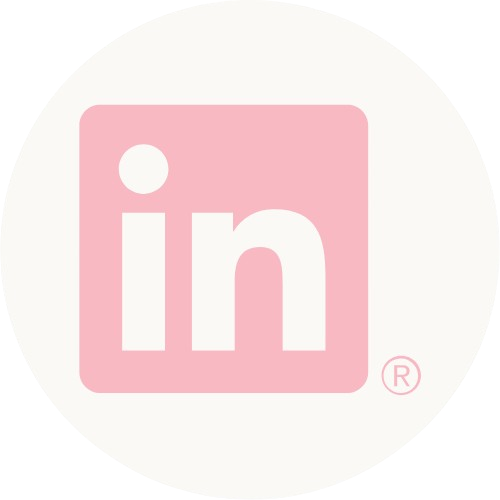
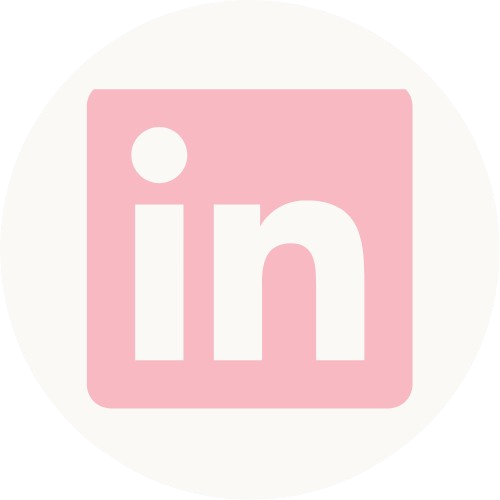
beautiful people beautiful problems - lana del rey

Changed region(s): [[0.15, 0.18, 0.84, 0.84], [0.27, 0.24, 0.39, 0.36]]

diff --git a/styles-index.css b/styles-index.css
@@ -244,25 +244,61 @@ body {
     transition: transform 0.2s ease;
   }
   
-  .contact-links img:hover {
-    transform: scale(1.1);
-  }
-  
   .linkedin {
     background-color: #293241;
   }
+
+  .contact-links a .linkedin {
+    width: 40px;
+    height: 40px;
+    transition: opacity 0.3s ease;
+}
+
+.contact-links a:hover .linkedin {
+    content: url('resources/linkedin-pink.png'); 
+}
   
   .email {
     background-color: #293241;
   }
+
+  .contact-links a .email {
+    width: 40px;
+    height: 40px;
+    transition: opacity 0.3s ease;
+}
+
+.contact-links a:hover .email {
+    content: url('resources/mail-pink.png'); 
+}
   
   .instagram {
     background-color: #293241;
   }
+
+  .contact-links a .instagram {
+    width: 40px;
+    height: 40px;
+    transition: opacity 0.3s ease;
+}
+
+.contact-links a:hover .instagram {
+    content: url('resources/instagram-pink.png'); 
+}
   
   .github {
     background-color: #293241;
   }
+
+  .contact-links a .github {
+    width: 40px;
+    height: 40px;
+    transition: opacity 0.3s ease;
+}
+
+.contact-links a:hover .github {
+    content: url('resources/github-pink.png'); 
+}
   
   
    

diff --git a/styles.css b/styles.css
@@ -173,25 +173,61 @@ body {
   transition: transform 0.2s ease;
 }
 
-.contact-links img:hover {
-  transform: scale(1.1);
-}
 
 .linkedin {
   background-color: #293241;
+}
+
+.contact-links a .linkedin {
+  width: 40px;
+  height: 40px;
+  transition: opacity 0.3s ease;
+}
+
+.contact-links a:hover .linkedin {
+  content: url('resources/linkedin-pink.png'); 
 }
 
 .email {
   background-color: #293241;
 }
 
+.contact-links a .email {
+  width: 40px;
+  height: 40px;
+  transition: opacity 0.3s ease;
+}
+
+.contact-links a:hover .email {
+  content: url('resources/mail-pink.png'); 
+}
+
 .instagram {
   background-color: #293241;
+}
+
+.contact-links a .instagram {
+  width: 40px;
+  height: 40px;
+  transition: opacity 0.3s ease;
+}
+
+.contact-links a:hover .instagram {
+  content: url('resources/instagram-pink.png'); 
 }
 
 .github {
   background-color: #293241;
 }
 
+.contact-links a .github {
+  width: 40px;
+  height: 40px;
+  transition: opacity 0.3s ease;
+}
+
+.contact-links a:hover .github {
+  content: url('resources/github-pink.png'); 
+}
 
  
